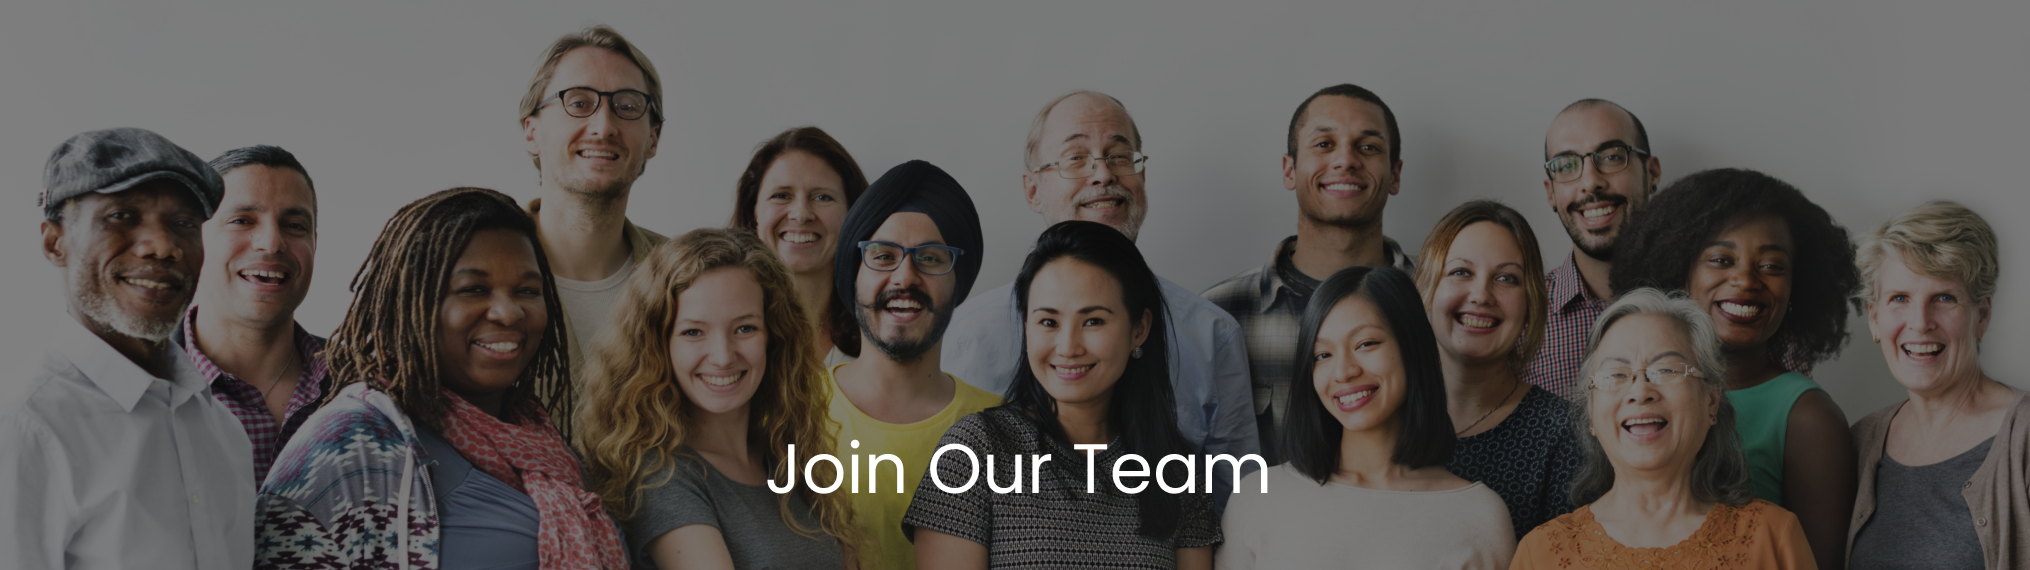
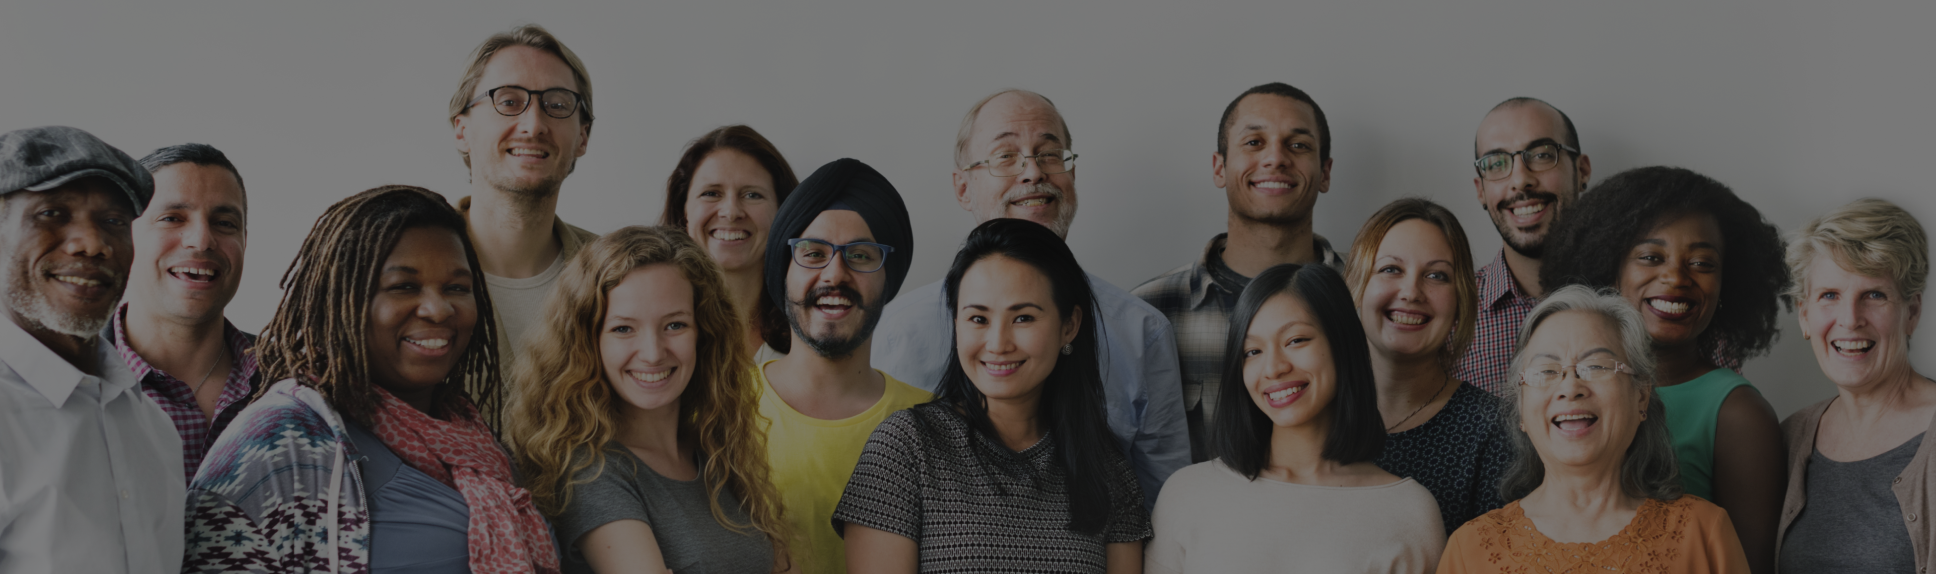
update in careerhehader

diff --git a/Components/Career/CareerHeader.js b/Components/Career/CareerHeader.js
@@ -9,9 +9,9 @@ const data = [
   {
     id: 1,
     img: 'https://raw.githubusercontent.com/Kalfreight-In/KalTires_new/main/Assets/Images/Career/headerbanner.png',
-    Heading: '',
-
-    // desc: 'WE HELP YOU ACHIEVE YOUR DREAMS',
+    Heading: 'Join Our Team',
+    // page: 'Careers'
+    // desc: 'Join Our Team',
 
     // CTA1: { heading: 'Apply Now', link: 'contactus' },
     // CTA12: { heading: 'Inventory', link: 'contactus' },
@@ -19,6 +19,23 @@ const data = [
 ];
 
 export const CareerHeader = () => (
+  <div id="careerHeadermain">
+    <div
+      id="careerHeadertwo"
+      style={{
+        backgroundImage:
+          // eslint-disable-next-line operator-linebreak
+          'url(' +
+          'https://raw.githubusercontent.com/shantanusoam/kal_tires/kaltireBranch/Assets/Images/Whatweoffer/Industrialtires/industbackg.png' +
+          ')',
+        backgroundRepeat: 'no-repeat',
+        backgroundSize: 'cover',
+        height: '',
+      }}
+    >
+      <h1 className="text-center">Join Our Team</h1>
+    </div>
+  </div>
   // const isMobile = useMediaQuery('(max-width:768px)');
 
   // <Image
@@ -26,5 +43,6 @@ export const CareerHeader = () => (
   //   alt="headerImage"
   //   objectFit="contain"
   // />
-  <HeroSection data={data[0]} />
+
+  // <HeroSection />
 );
